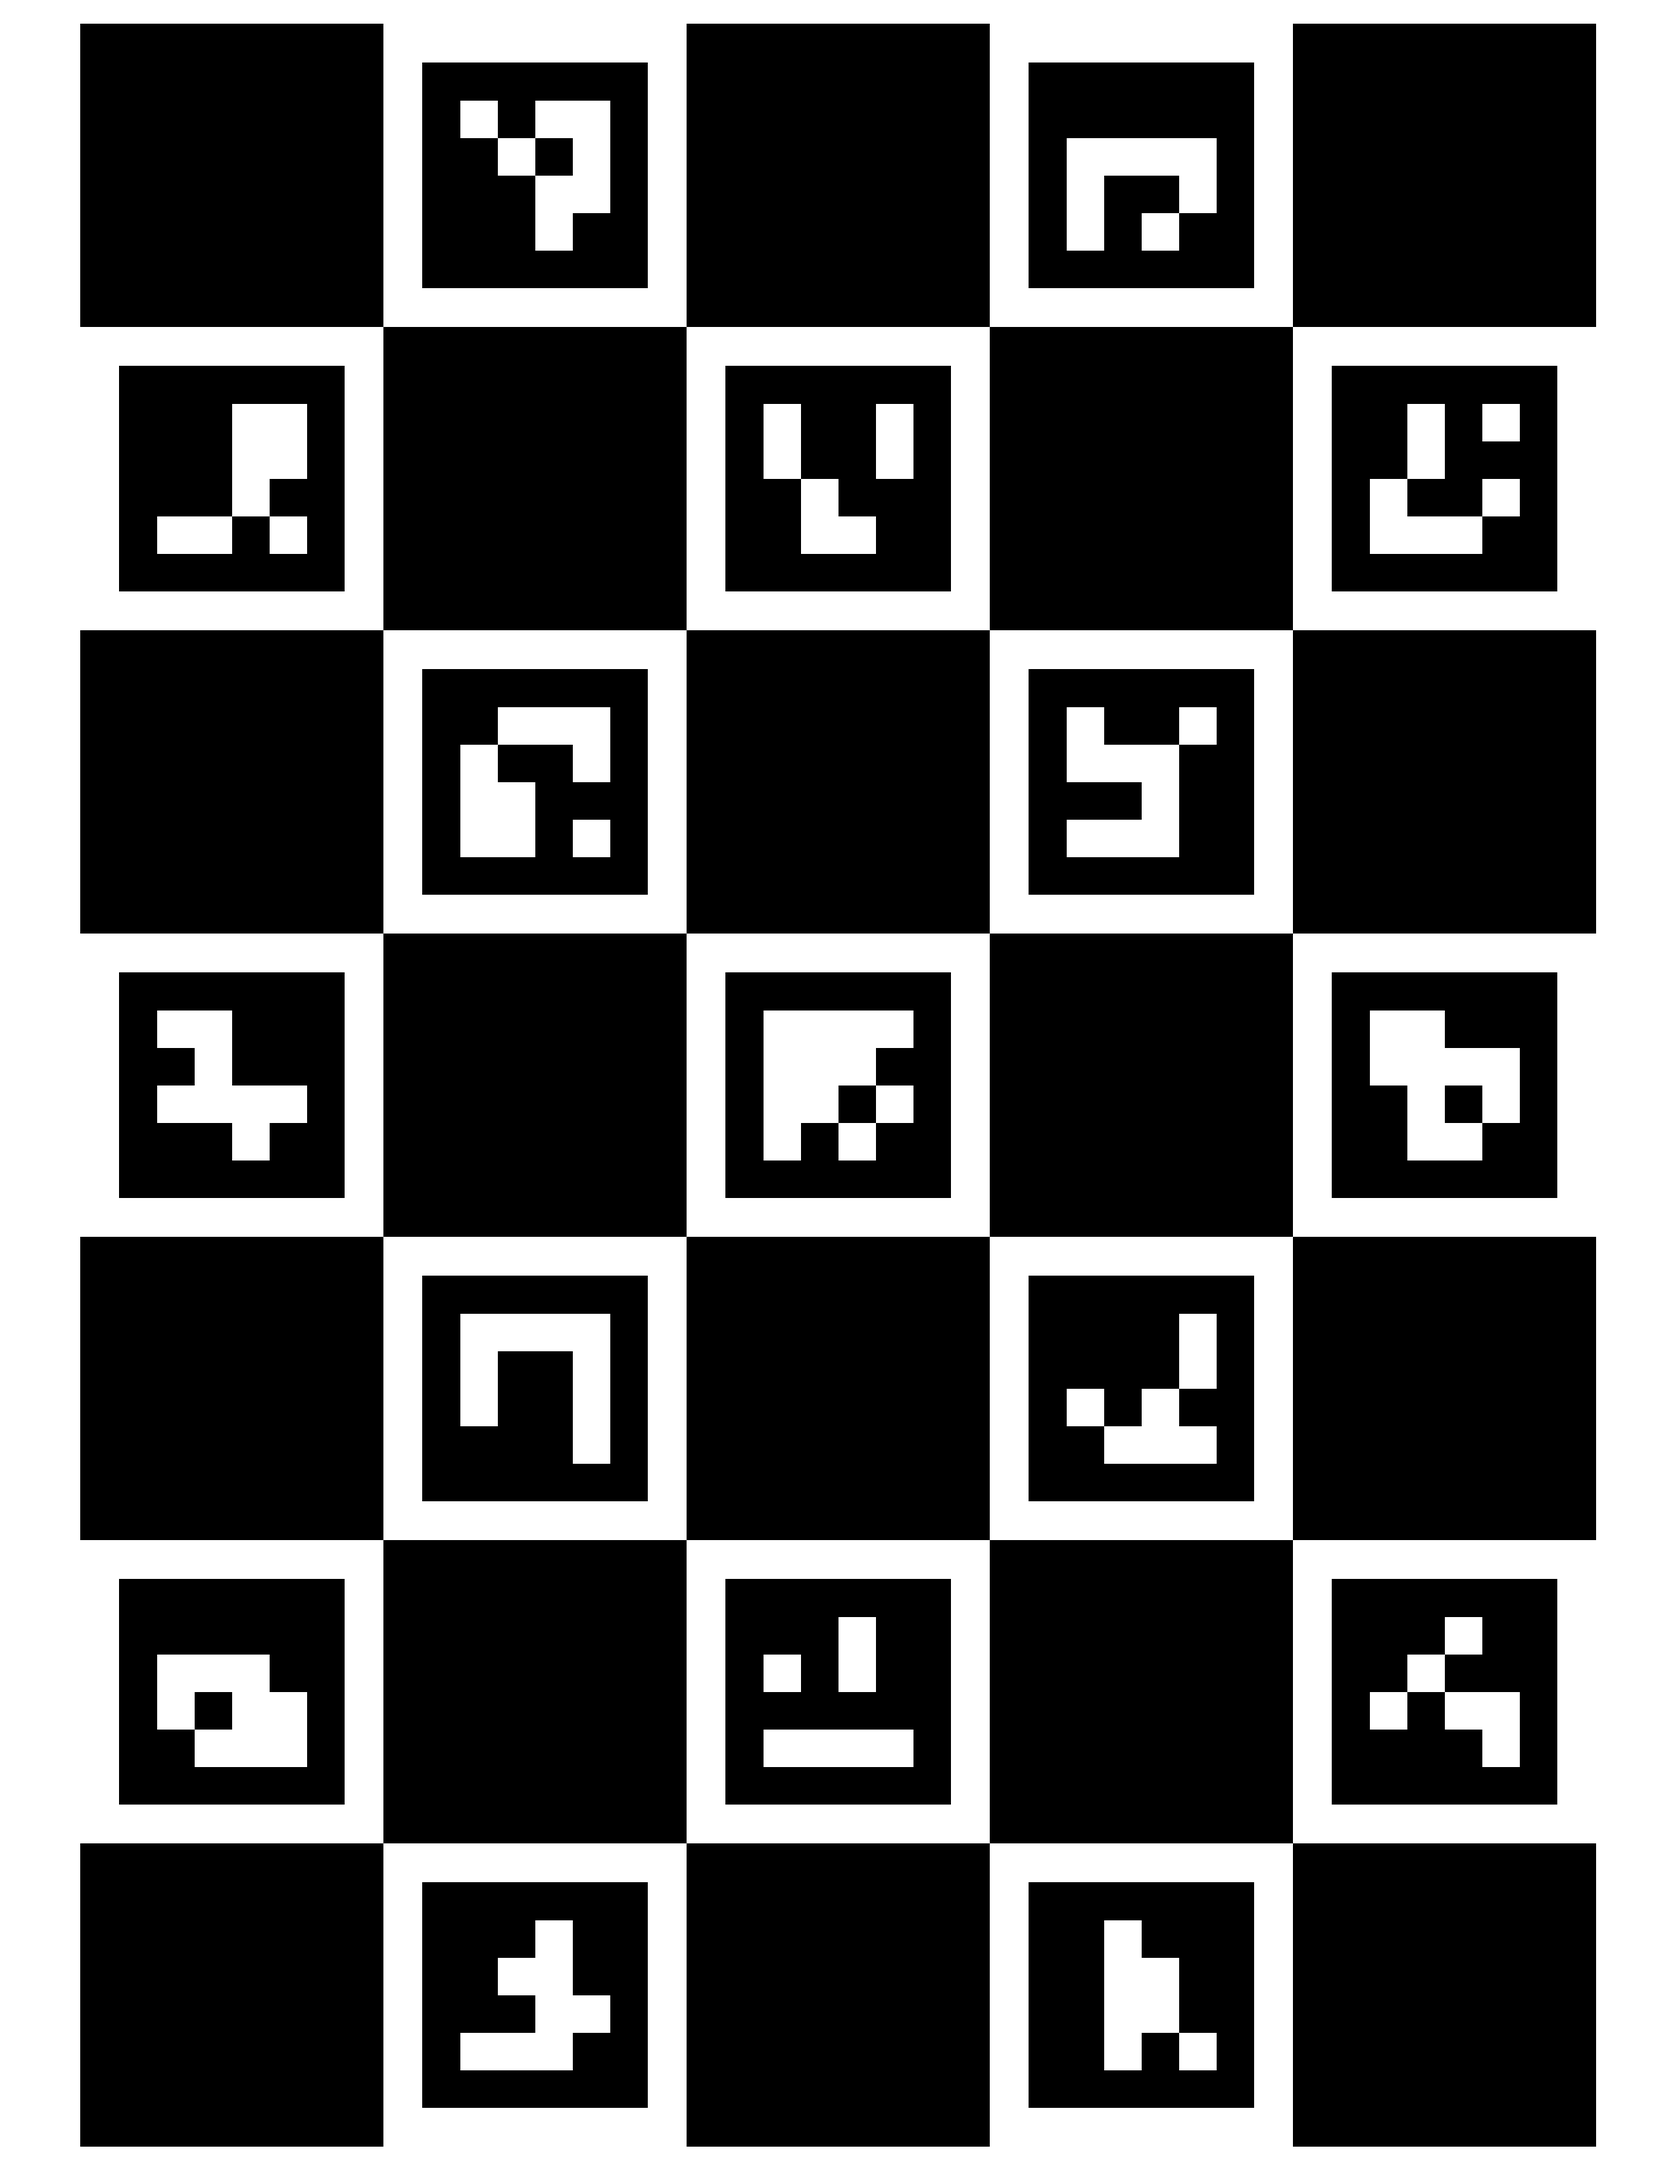
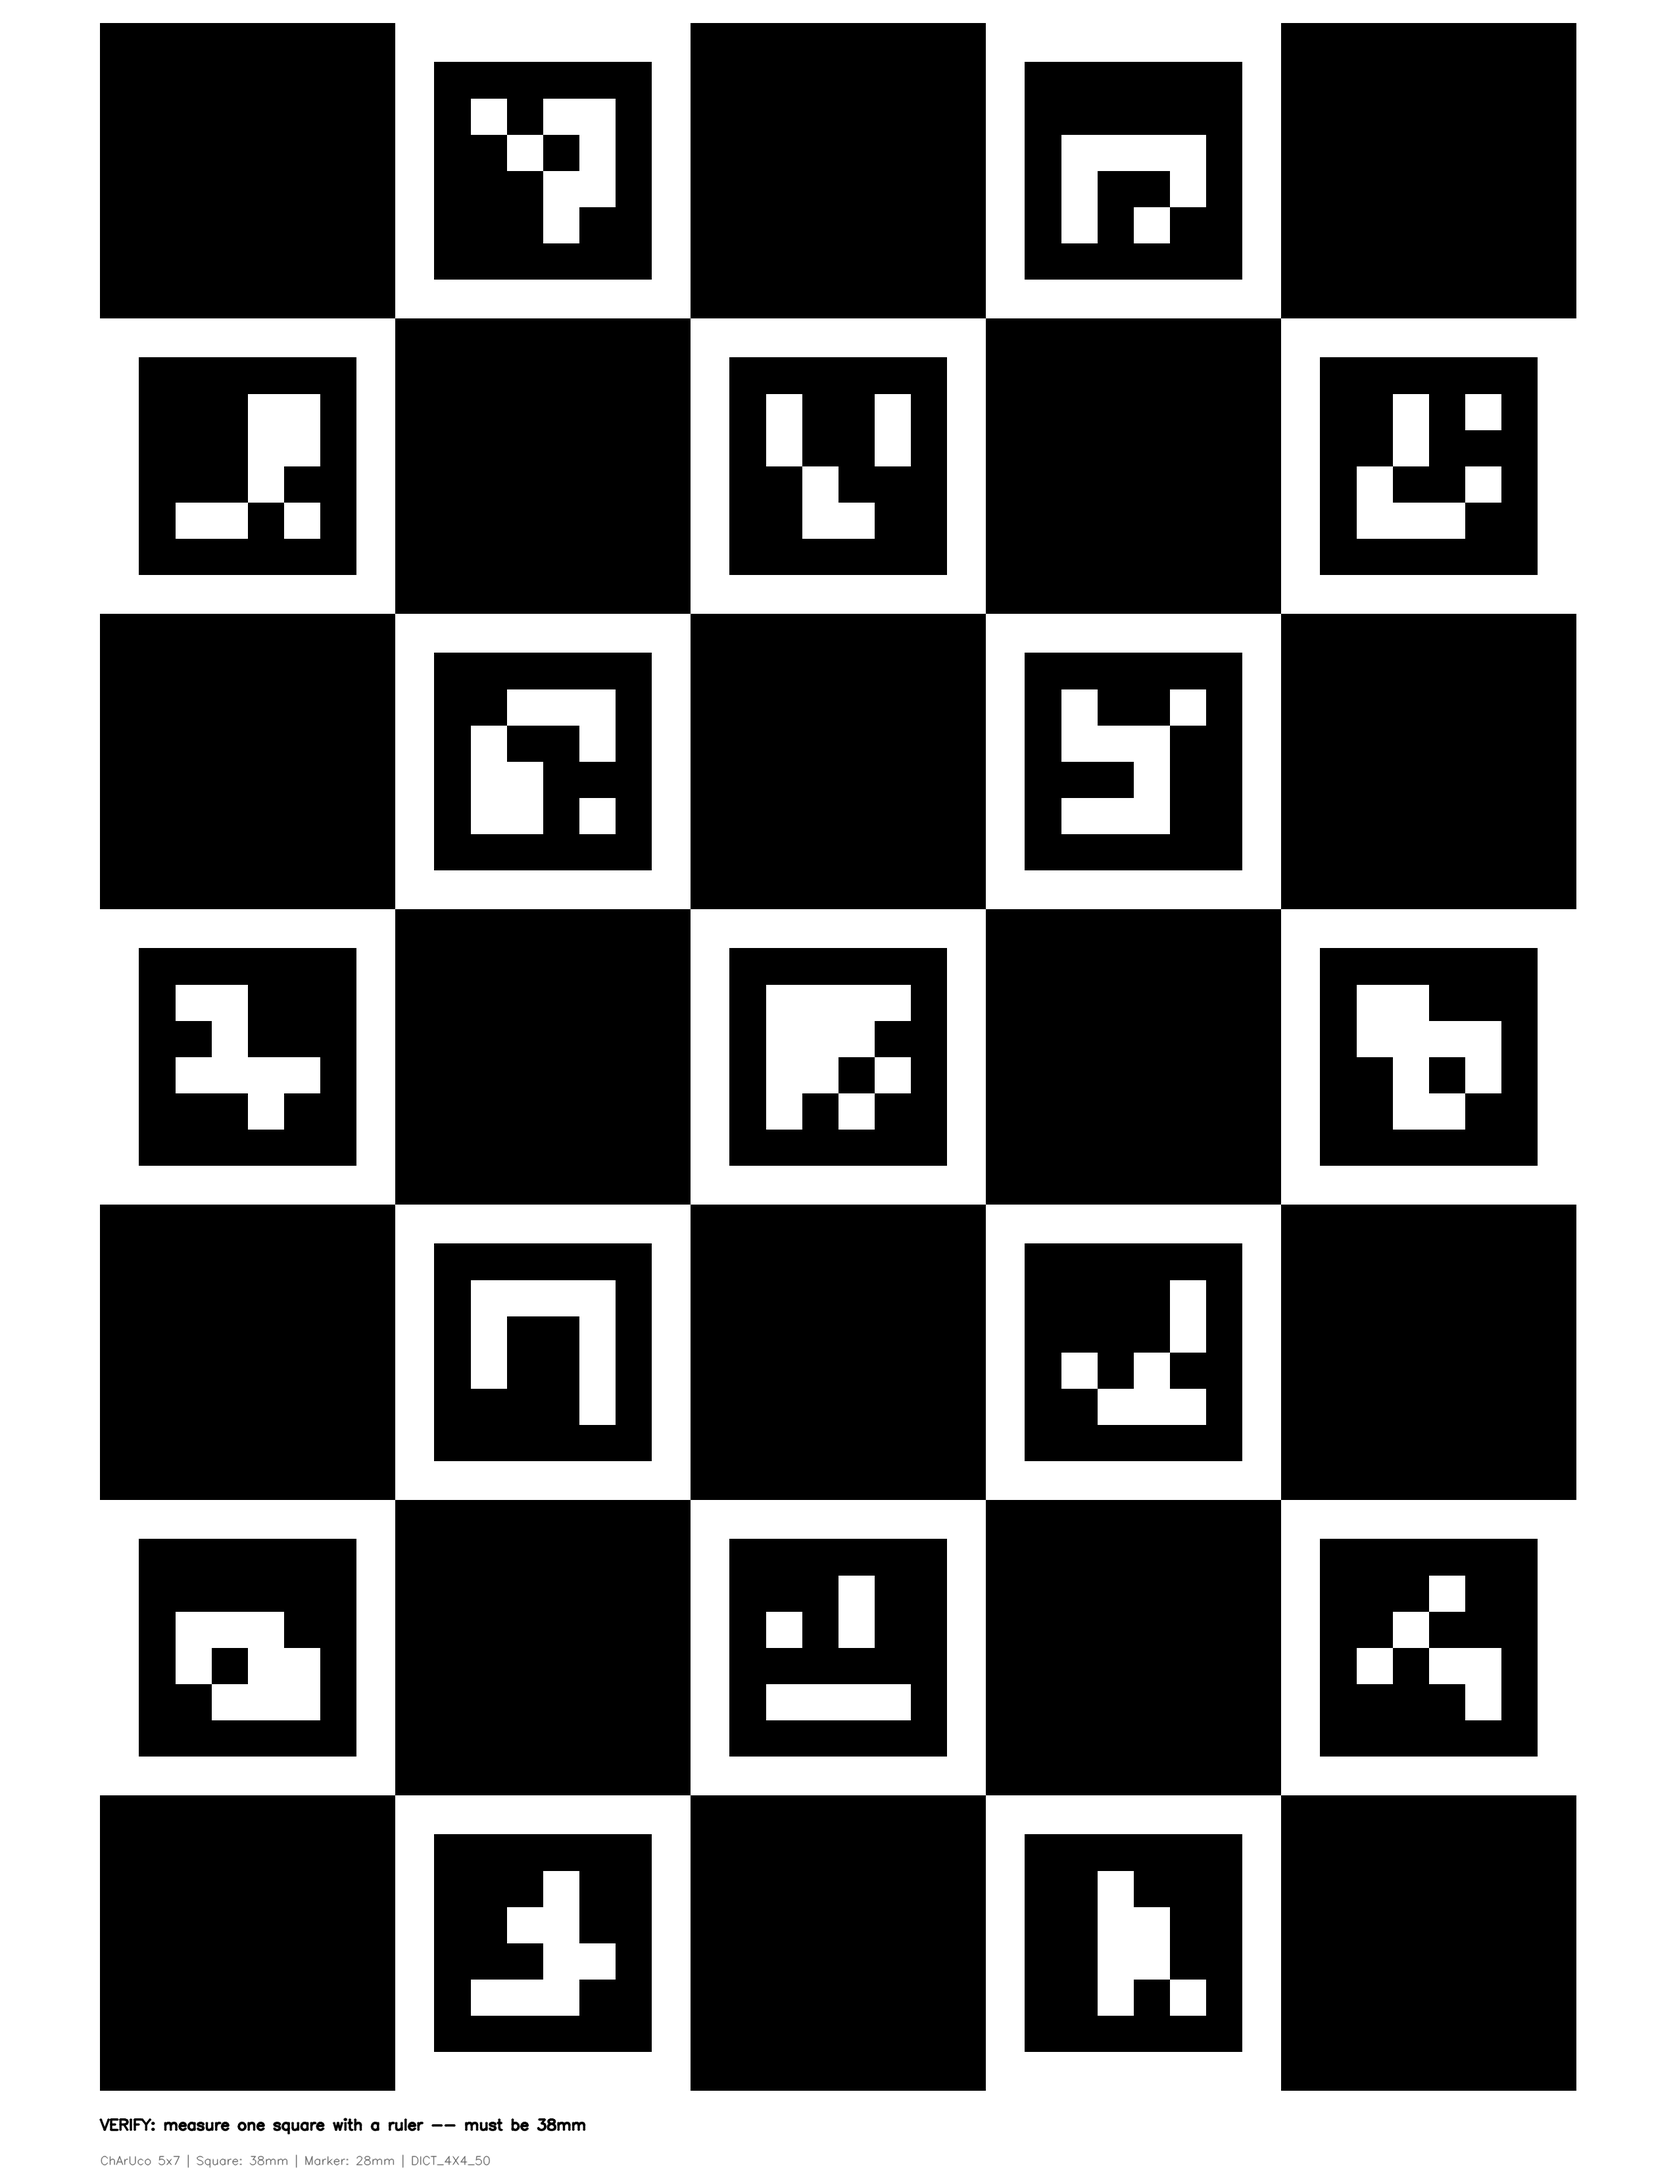
added size check to charuco board

Changed region(s): [[0.031, 0.0, 0.9604, 0.9988]]

diff --git a/survey/calibration/generate_charuco_board.py b/survey/calibration/generate_charuco_board.py
@@ -3,8 +3,8 @@
 
 Board parameters:
     - 5 columns x 7 rows
-    - Square size: 39mm
-    - Marker size: 29mm (ratio 0.74)
+    - Square size: 38mm
+    - Marker size: 28mm (ratio 0.74)
     - Dictionary: DICT_4X4_50
     - 17 ArUco markers, 24 checkerboard corners
 
@@ -25,8 +25,8 @@ import numpy as np
 # Board parameters
 COLS = 5          # number of squares in X
 ROWS = 7          # number of squares in Y
-SQUARE_MM = 39    # square side length in mm
-MARKER_MM = 29    # marker side length in mm
+SQUARE_MM = 38    # square side length in mm
+MARKER_MM = 28    # marker side length in mm (0.74 ratio)
 
 # US Letter at 300 DPI
 DPI = 300
@@ -76,30 +76,33 @@ def generate_board():
     # Generate board at exact pixel dimensions (margin=0, we'll add our own)
     board_img = board.generateImage((BOARD_W_PX, BOARD_H_PX), marginSize=0)
 
-    # Create white letter-sized page and center the board
+    # Create white letter-sized page.
+    # Push the board to the top (small top margin) to leave room for text below.
     page = np.ones((PAGE_H_PX, PAGE_W_PX), dtype=np.uint8) * 255
     x_off = (PAGE_W_PX - BOARD_W_PX) // 2
-    y_off = (PAGE_H_PX - BOARD_H_PX) // 2
+    top_margin = int(3 * PX_PER_MM)  # ~3mm from top edge
+    y_off = top_margin
     page[y_off:y_off + BOARD_H_PX, x_off:x_off + BOARD_W_PX] = board_img
 
     # Convert to BGR for text rendering
     page_color = cv2.cvtColor(page, cv2.COLOR_GRAY2BGR)
 
-    # Add parameter text below the board
-    text_y = y_off + BOARD_H_PX + int(12 * PX_PER_MM)
+    # Add verification text below the board
     font = cv2.FONT_HERSHEY_SIMPLEX
-    font_scale = 0.9
-    color = (0, 0, 0)
-    thickness = 2
-    line_height = int(5 * PX_PER_MM)
+    below_board = y_off + BOARD_H_PX
 
-    lines = [
-        f"ChArUco {COLS}x{ROWS}  |  Square: {SQUARE_MM}mm  |  Marker: {MARKER_MM}mm  |  DICT_4X4_50",
-        "Print at 100% scale (no fit-to-page). Verify: one square = 39mm.",
-    ]
-    for i, line in enumerate(lines):
-        cv2.putText(page_color, line, (x_off, text_y + i * line_height),
-                    font, font_scale, color, thickness, cv2.LINE_AA)
+    # Verification line
+    verify_y = below_board + int(5 * PX_PER_MM)
+    cv2.putText(page_color,
+                f"VERIFY: measure one square with a ruler -- must be {SQUARE_MM}mm",
+                (x_off, verify_y), font, 0.75, (0, 0, 0), 2, cv2.LINE_AA)
+
+    # Parameter reference line
+    params_y = verify_y + int(4.5 * PX_PER_MM)
+    cv2.putText(page_color,
+                f"ChArUco {COLS}x{ROWS} | Square: {SQUARE_MM}mm | "
+                f"Marker: {MARKER_MM}mm | DICT_4X4_50",
+                (x_off, params_y), font, 0.6, (100, 100, 100), 1, cv2.LINE_AA)
 
     # Save with 300 DPI metadata (OpenCV doesn't write PNG pHYs chunk)
     output_dir = os.path.dirname(os.path.abspath(__file__))

diff --git a/survey/calibration/README.md b/survey/calibration/README.md
@@ -14,8 +14,8 @@ A ChArUco board combines a checkerboard with ArUco markers. Advantages over a pl
 | Parameter | Value |
 |-----------|-------|
 | Layout | 5 columns x 7 rows |
-| Square size | 39mm |
-| Marker size | 29mm (0.74 ratio) |
+| Square size | 38mm |
+| Marker size | 28mm (0.74 ratio) |
 | ArUco dictionary | `DICT_4X4_50` |
 | ArUco markers | 17 |
 | Checkerboard corners | 24 per image |
@@ -31,7 +31,7 @@ A ChArUco board combines a checkerboard with ArUco markers. Advantages over a pl
 
 ### Verify Print Dimensions
 
-Measure any square with a ruler — it should be **39mm +/- 0.5mm**. If it's off, your printer scaled the image. Re-print with scaling set to exactly 100%.
+Measure any square with a ruler — it should be **38mm +/- 0.5mm**. If it's off, your printer scaled the image. Re-print with scaling set to exactly 100%.
 
 ## Capturing Calibration Images
 
@@ -105,7 +105,7 @@ import glob
 
 # Reconstruct the board
 aruco_dict = cv2.aruco.getPredefinedDictionary(cv2.aruco.DICT_4X4_50)
-board = cv2.aruco.CharucoBoard((5, 7), 0.039, 0.029, aruco_dict)  # meters
+board = cv2.aruco.CharucoBoard((5, 7), 0.038, 0.028, aruco_dict)  # meters
 detector_params = cv2.aruco.DetectorParameters()
 detector = cv2.aruco.ArucoDetector(aruco_dict, detector_params)
 
